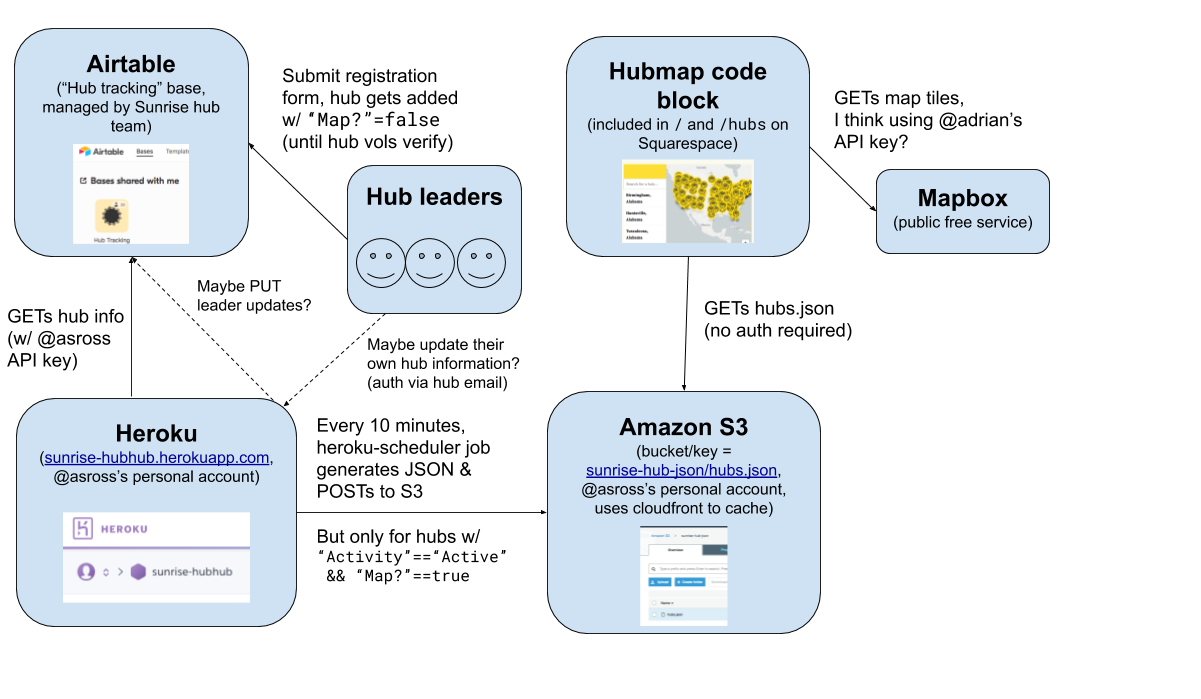
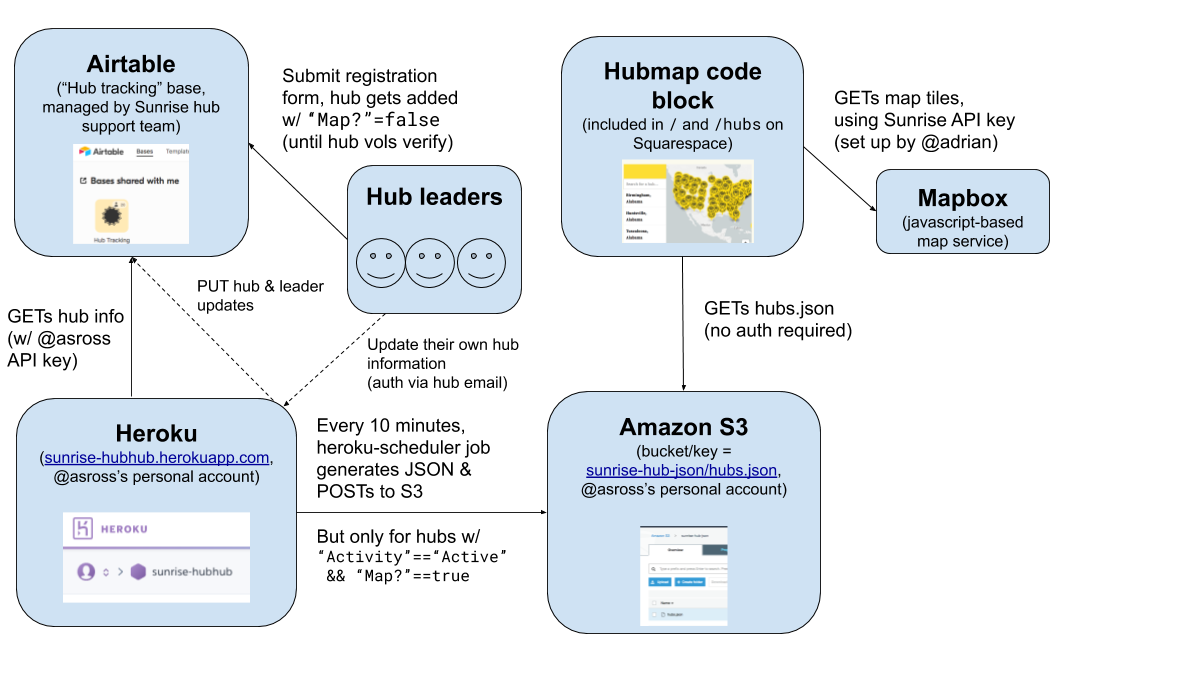
Update README

diff --git a/README.md b/README.md
@@ -1,29 +1,30 @@
-# Sunrise Hub Map + Airtable
+# Hubhub: Sunrise Hub Map + Airtable
 
-This repository contains code to help integrate Airtable (the eventual canonical source of hub data) with the [Sunrise hub map](https://www.sunrisemovement.org/hubs) and potentially other public or coordinator-facing applications.
+This repository contains code to help integrate Airtable (the current canonical source of hub data) with the [Sunrise hub map](https://www.sunrisemovement.org/hubs), as well as a web interface to help hubs manage their own data.
 
-## Some background
+## High-level summary
 
-Currently, the hub map is powered by Google Sheets (see [the map's github repo](https://github.com/sunrisemovement/sunrise-movement-hub-map) for more details). However, keeping data synced currently requires a decent amount of error-prone manual work, and comes with downsides like the inability to make atomic edits of multiple fields. There are also issues keeping track of which hubs are active and exactly what information should be public and private.
-
-## This repo
-
-### New Hub Map
-
-Using the [Airtable API](https://airtable.com/apptig05QGFvV5GVd/api/docs) (ask about access on Slack) and the excellent [airrecord](https://github.com/sirupsen/airrecord) Ruby library, we pull hub and coordinator data in [`airtable.rb`](./airtable.rb), convert it to a JSON blob, and push it to Amazon S3 in [`scripts/upload_hub_json.rb`](./scripts/upload_hub_json.rb). We use this to power a (rough) new version of the hub map in [`public/hub_map.html`](./public/hub_map.html).
-
-The Airtable data still needs some cleaning (especially around names and links), and as part of this process, we'll want flags on each hub and each coordinator indicating whether they are active and whether they should be shown on the map.
-
-### Coordinator Data Management
-
-This repo also contains a small [sinatra](http://sinatrarb.com/)-based web application that uses the Airtable API to generate an edit form for hub information related to the map (i.e. latitude and longitude, social media links, etc).
-
-Authentication is currently inspired by Slack's "magic link" method, where you click on a link that gets sent to your email address instead of entering a password. This is convenient because it means we don't have to manage user accounts, and because we can simultaneously implement authorization -- that is, you would have authority to edit hubs if you have access to the hub email address (or are listed as a coordinator on Airtable). This is currently implemented (but just for the hub email); however, we definitely might want extra layers of security.
-
-### Diagram (updated Sep. 29, 2019)
+Using the [Airtable API](https://airtable.com/apptig05QGFvV5GVd/api/docs), Hubhub (hosted on [Heroku](https://www.heroku.com/)) pulls hub data in [`airtable.rb`](./airtable.rb), converts it to a JSON blob, and pushes it to Amazon S3 in [`scripts/upload_hub_json.rb`](./scripts/upload_hub_json.rb), which is run every 10 minutes by a job scheduler. This JSON blob is then loaded by the hub map in [`public/hub_map.html`](./public/hub_map.html). We can summarize all of this with the following diagram:
 
 ![diagram](./infra-diagram.png)
 
-## Where this is going
+Note that currently, some parts of this infrastructure are being run on personal rather than Sunrise-managed accounts. Traffic to this application is currently low enough that Heroku's free tier (and email addons) are more than sufficient, and Amazon S3 storage costs are almost nothing. However, we could face issues scaling.
 
-This is still definitely a work in progress, and when/whether we roll it out will be a group decision. However, feel free to message `@asross` if this is exciting to you or if you want to help out!
+## Contributing
+
+### Steps to run locally
+
+- clone and `cd` into this repository
+- download Ruby 2.6.3
+    - if using mac, likely easiest by installing [rbenv](https://github.com/rbenv/rbenv)
+    - if additionally using Homebrew, you can run `brew install rbenv && rbenv init && rbenv install 2.6.3`
+- run `bundle install` to install dependencies
+- set [environment variables](./.env.example) -- note that this may require requesting access to the production or staging Airtable first.
+- run `./serve` to view the app
+- in development mode, check your logs in the terminal window to find the login link
+
+### Repository structure
+
+- [`airtable.rb`](./airtable.rb) contains the core data modeling. It's mostly a thin wrapper on top of Airtable's API, developed with the excellent [airrecord](https://github.com/Sirupsen/airrecord) library, but it also includes all of the business logic for converting Airtable data into the hub map JSON payload.
+- [`app.rb`](./app.rb) and all of the templates in [`views/`](./views/) contain the primary code for the web interface that hubs can use to manage their own data, built using [sinatra](http://sinatrarb.com/).
+- [`magic_link.rb`](./magic_link.rb) contains the login logic for hub data management. It handles generating, emailing, and verifying one-time-use login links that get sent to designated hub emails.
